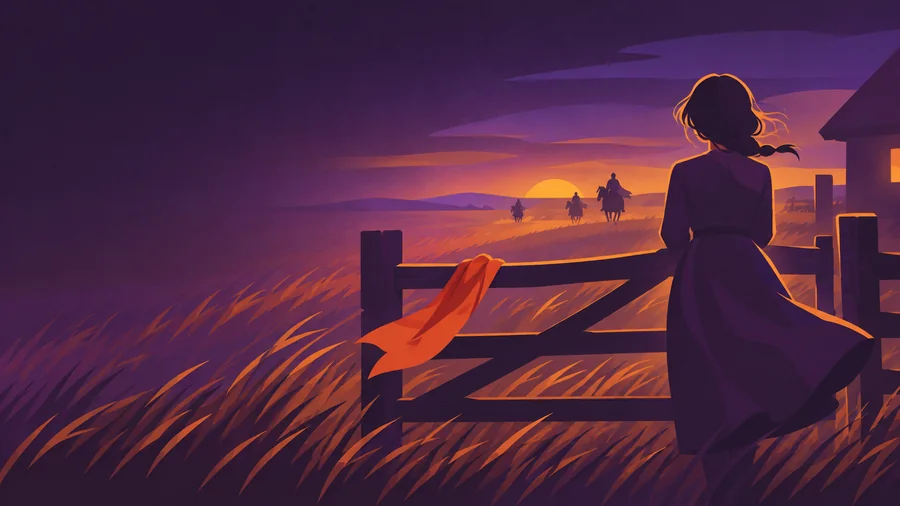
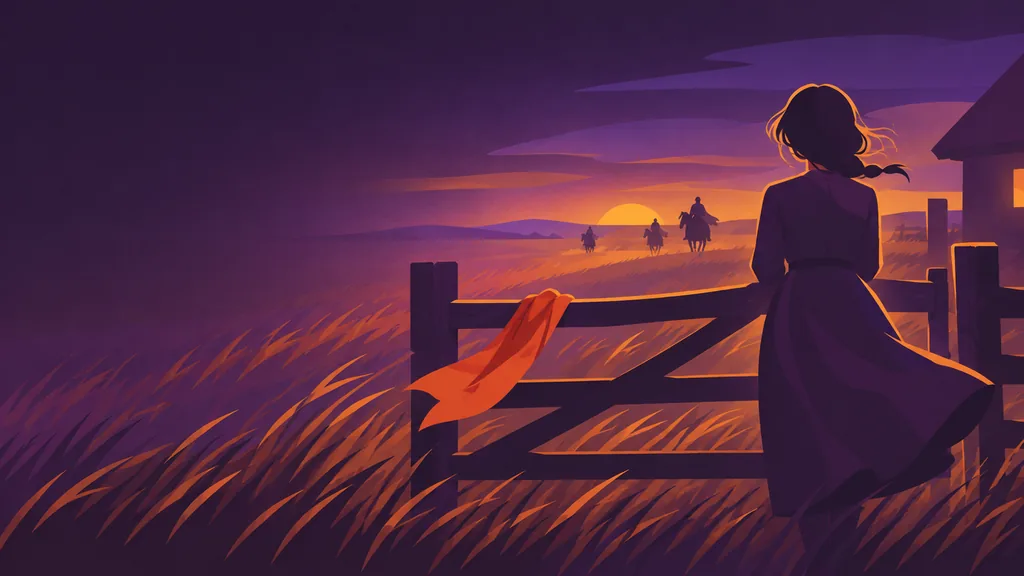
Обкладинки для всіх тем і розділів
Було: 22 теми з картинкою, 39 з емодзі, 3 розділи з 8. Стало: усі 61
і всі 8. Плюс шість екранів станів (денна ціль, серії 3/7/30, порожній
прогрес, офлайн).

Картинки згенеровано через Gemini за спільним еталоном стилю. Бот
віддав 50 файлів із випадковими іменами й без папки, тож зіставляв
за сюжетом по контактних аркушах; порядок генерації збігся з порядком
у промті, що спростило звірку.

З 50 придатних виявилось 43: сім слотів пішло на дублі (двічі лупа,
двічі кларнет, двічі перо, двічі гілка) і один на натюрморт замість
села. Відсутні cover-nova та всі шість станів догенеровано окремо.

Дорогою: сітку станів довелося переробити в чистому чаті — у чаті
з попереднім зображенням Gemini віддавав на завантаження кадр, де нова
картинка напівпрозоро накладена на стару. На екрані виглядало чисто,
у файлі — ні.

200 МБ вихідних PNG стиснуто до 1,8 МБ WebP: розділи до 1024 по довгій
стороні, квадратні до 768, якість 82.

Список картинок у sw.js тепер збирається з каталогу, а не ведеться
руками — 93 файли, жодного відсутнього.

diff --git a/content/index.js b/content/index.js
@@ -39,6 +39,7 @@ export const SECTIONS = [
   },
   {
     id: 'davnya',
+    cover: ART + 'cover-davnya.webp',
     title: 'Давня українська література',
     topics: [
       {
@@ -57,6 +58,7 @@ export const SECTIONS = [
   },
   {
     id: 'nova',
+    cover: ART + 'cover-nova.webp',
     title: 'Література кінця XVIII — початку XX ст.',
     topics: [
       {
@@ -120,129 +122,130 @@ export const SECTIONS = [
     topics: [
       {
         id: 'kotsyubynsky-tini', title: '«Тіні забутих предків»', author: 'Михайло Коцюбинський',
-        icon: '🏔', minutes: 14,
+        icon: '🏔', minutes: 14, cover: ART + 'cover-kotsyubynsky-tini.webp',
       },
       {
         id: 'kotsyubynsky-intermezzo', title: '«Intermezzo»', author: 'Михайло Коцюбинський',
-        icon: '🌾', minutes: 11,
+        icon: '🌾', minutes: 11, cover: ART + 'cover-kotsyubynsky-intermezzo.webp',
       },
       {
         id: 'stefanyk-kaminnyy-khrest', title: '«Камінний хрест»', author: 'Василь Стефаник',
-        icon: '✝', minutes: 11,
+        icon: '✝', minutes: 11, cover: ART + 'cover-stefanyk-kaminnyy-khrest.webp',
       },
       {
         id: 'kobylyanska-valse', title: '«Valse mélancolique»', author: 'Ольга Кобилянська',
-        icon: '🎹', minutes: 12,
+        icon: '🎹', minutes: 12, cover: ART + 'cover-kobylyanska-valse.webp',
       },
       {
         id: 'lesya-contra-spem-spero', title: '«Contra spem spero!»', author: 'Леся Українка',
-        icon: '🌸', minutes: 9,
+        icon: '🌸', minutes: 9, cover: ART + 'cover-lesya-contra-spem-spero.webp',
       },
       {
         id: 'lesya-lisova-pisnya', title: '«Лісова пісня»', author: 'Леся Українка',
-        icon: '🌲', minutes: 15,
+        icon: '🌲', minutes: 15, cover: ART + 'cover-lesya-lisova-pisnya.webp',
       },
       {
         id: 'voronyy-blakytna-panna', title: '«Блакитна Панна»', author: 'Микола Вороний',
-        icon: '💙', minutes: 9,
+        icon: '💙', minutes: 9, cover: ART + 'cover-voronyy-blakytna-panna.webp',
       },
       {
         id: 'oles-poeziya', title: 'Поезія Олександра Олеся', author: '«Чари ночі», «О слово рідне!»',
-        icon: '🌙', minutes: 11,
+        icon: '🌙', minutes: 11, cover: ART + 'cover-oles-poeziya.webp',
       },
       {
         id: 'tychyna-poeziya', title: 'Поезія Павла Тичини', author: 'Три вірші з програми',
-        icon: '🎺', minutes: 13,
+        icon: '🎺', minutes: 13, cover: ART + 'cover-tychyna-poeziya.webp',
       },
       {
         id: 'rylsky-u-tepli-dni', title: '«У теплі дні збирання винограду…»', author: 'Максим Рильський',
-        icon: '🍇', minutes: 10,
+        icon: '🍇', minutes: 10, cover: ART + 'cover-rylsky-u-tepli-dni.webp',
       },
       {
         id: 'khvylovyy-ya-romantyka', title: '«Я (Романтика)»', author: 'Микола Хвильовий',
-        icon: '🔥', minutes: 13,
+        icon: '🔥', minutes: 13, cover: ART + 'cover-khvylovyy-ya-romantyka.webp',
       },
       {
         id: 'yanovsky-mayster-korablya', title: '«Майстер корабля»', author: 'Юрій Яновський',
-        icon: '⛵', minutes: 12,
+        icon: '⛵', minutes: 12, cover: ART + 'cover-yanovsky-mayster-korablya.webp',
       },
       {
         id: 'pidmohylnyy-misto', title: '«Місто»', author: 'Валер’ян Підмогильний',
-        icon: '🏙', minutes: 13,
+        icon: '🏙', minutes: 13, cover: ART + 'cover-pidmohylnyy-misto.webp',
       },
       {
         id: 'vyshnya-usmishky', title: 'Усмішки Остапа Вишні', author: '«Моя автобіографія», «Сом»',
-        icon: '🎣', minutes: 11,
+        icon: '🎣', minutes: 11, cover: ART + 'cover-vyshnya-usmishky.webp',
       },
       {
         id: 'kulish-myna-mazaylo', title: '«Мина Мазайло»', author: 'Микола Куліш',
-        icon: '🎭', minutes: 13,
+        icon: '🎭', minutes: 13, cover: ART + 'cover-kulish-myna-mazaylo.webp',
       },
       {
         id: 'antonych-rizdvo', title: '«Різдво»', author: 'Богдан-Ігор Антонич',
-        icon: '❄', minutes: 9,
+        icon: '❄', minutes: 9, cover: ART + 'cover-antonych-rizdvo.webp',
       },
       {
         id: 'sosyura-lyubit-ukrainu', title: '«Любіть Україну!»', author: 'Володимир Сосюра',
-        icon: '🌻', minutes: 9,
+        icon: '🌻', minutes: 9, cover: ART + 'cover-sosyura-lyubit-ukrainu.webp',
       },
       {
         id: 'dovzhenko-zacharovana-desna', title: '«Зачарована Десна»', author: 'Олександр Довженко',
-        icon: '🏞', minutes: 13,
+        icon: '🏞', minutes: 13, cover: ART + 'cover-dovzhenko-zacharovana-desna.webp',
       },
       {
         id: 'malyshko-pisnya-pro-rushnyk', title: '«Пісня про рушник»', author: 'Андрій Малишко',
-        icon: '🧵', minutes: 9,
+        icon: '🧵', minutes: 9, cover: ART + 'cover-malyshko-pisnya-pro-rushnyk.webp',
       },
       {
         id: 'honchar-modry-kamen', title: '«Модри Камень»', author: 'Олесь Гончар',
-        icon: '🏔', minutes: 10,
+        icon: '🏔', minutes: 10, cover: ART + 'cover-honchar-modry-kamen.webp',
       },
       {
         id: 'symonenko-poeziya', title: 'Поезія Василя Симоненка', author: 'Три вірші з програми',
-        icon: '🦢', minutes: 12,
+        icon: '🦢', minutes: 12, cover: ART + 'cover-symonenko-poeziya.webp',
       },
       {
         id: 'holoborodko-nasha-mova', title: '«Наша мова»', author: 'Василь Голобородько',
-        icon: '🗣', minutes: 9,
+        icon: '🗣', minutes: 9, cover: ART + 'cover-holoborodko-nasha-mova.webp',
       },
       {
         id: 'tyutyunnyk-try-zozuli', title: '«Три зозулі з поклоном»', author: 'Григір Тютюнник',
-        icon: '🕊', minutes: 11,
+        icon: '🕊', minutes: 11, cover: ART + 'cover-tyutyunnyk-try-zozuli.webp',
       },
       {
         id: 'stus-hospody', title: '«Господи, гніву пречистого…»', author: 'Василь Стус',
-        icon: '⛓', minutes: 10,
+        icon: '⛓', minutes: 10, cover: ART + 'cover-stus-hospody.webp',
       },
       {
         id: 'drach-balada-pro-sonyashnyk', title: '«Балада про соняшник»', author: 'Іван Драч',
-        icon: '🌞', minutes: 10,
+        icon: '🌞', minutes: 10, cover: ART + 'cover-drach-balada-pro-sonyashnyk.webp',
       },
       {
         id: 'pavlychko-dva-kolory', title: '«Два кольори»', author: 'Дмитро Павличко',
-        icon: '🧶', minutes: 9,
+        icon: '🧶', minutes: 9, cover: ART + 'cover-pavlychko-dva-kolory.webp',
       },
       {
         id: 'kostenko-strashni-slova', title: '«Страшні слова, коли вони мовчать»', author: 'Ліна Костенко',
-        icon: '✒', minutes: 10,
+        icon: '✒', minutes: 10, cover: ART + 'cover-kostenko-strashni-slova.webp',
       },
       {
         id: 'kostenko-marusya-churay', title: '«Маруся Чурай»', author: 'Ліна Костенко',
-        icon: '🎼', minutes: 15,
+        icon: '🎼', minutes: 15, cover: ART + 'cover-kostenko-marusya-churay.webp',
       },
     ],
   },
   {
     id: 'emigranty',
+    cover: ART + 'cover-emigranty.webp',
     title: 'Письменники-емігранти',
     topics: [
       {
         id: 'bahryanyy-tyhrolovy', title: '«Тигролови»', author: 'Іван Багряний',
-        icon: '🐅', minutes: 14,
+        icon: '🐅', minutes: 14, cover: ART + 'cover-bahryanyy-tyhrolovy.webp',
       },
       {
         id: 'malanyuk-uryvok-z-poemy', title: '«Уривок з поеми»', author: 'Євген Маланюк',
-        icon: '🗡', minutes: 10,
+        icon: '🗡', minutes: 10, cover: ART + 'cover-malanyuk-uryvok-z-poemy.webp',
       },
     ],
   },
@@ -253,12 +256,13 @@ export const SECTIONS = [
     topics: [
       {
         id: 'suchasnyy-protses', title: 'Сучасний літературний процес', author: 'Постмодернізм і його автори',
-        icon: '🌀', minutes: 11,
+        icon: '🌀', minutes: 11, cover: ART + 'cover-suchasnyy-protses.webp',
       },
     ],
   },
   {
     id: 'teoriya',
+    cover: ART + 'cover-teoriya.webp',
     title: 'Теорія літератури',
     topics: [
       {
@@ -267,41 +271,42 @@ export const SECTIONS = [
       },
       {
         id: 'teoriya-virshuvannya', title: 'Віршування', author: 'Розмір, рима, строфа',
-        icon: '📐', minutes: 12,
+        icon: '📐', minutes: 12, cover: ART + 'cover-teoriya-virshuvannya.webp',
       },
       {
         id: 'teoriya-tropy', title: 'Художні засоби', author: 'Тропи й стилістичні фігури',
-        icon: '🎨', minutes: 13,
+        icon: '🎨', minutes: 13, cover: ART + 'cover-teoriya-tropy.webp',
       },
       {
         id: 'teoriya-napryamy', title: 'Літературні напрями', author: 'Від бароко до постмодернізму',
-        icon: '🧭', minutes: 13,
+        icon: '🧭', minutes: 13, cover: ART + 'cover-teoriya-napryamy.webp',
       },
     ],
   },
   {
     id: 'rozbir',
+    cover: ART + 'cover-rozbir.webp',
     title: 'Аналіз незнайомого тексту',
     topics: [
       {
         id: 'cluster-yak-rozbyraty', title: 'Як розбирати незнайомий текст', author: 'Завдання 16–25',
-        icon: '🧩', minutes: 10,
+        icon: '🧩', minutes: 10, cover: ART + 'cover-cluster-yak-rozbyraty.webp',
       },
       {
         id: 'cluster-lesya-vesna', title: 'Вірш І: «Стояла я і слухала весну…»', author: 'Леся Українка',
-        icon: '🌱', minutes: 8,
+        icon: '🌱', minutes: 8, cover: ART + 'cover-cluster-lesya-vesna.webp',
       },
       {
         id: 'cluster-franko-zernya', title: 'Вірш ІІ: «Ой ти, дівчино, з горіха зерня…»', author: 'Іван Франко',
-        icon: '🌰', minutes: 8,
+        icon: '🌰', minutes: 8, cover: ART + 'cover-cluster-franko-zernya.webp',
       },
       {
         id: 'cluster-stefanyk-novyna', title: 'Проза І: «Новина»', author: 'Василь Стефаник',
-        icon: '🪨', minutes: 9,
+        icon: '🪨', minutes: 9, cover: ART + 'cover-cluster-stefanyk-novyna.webp',
       },
       {
         id: 'cluster-kotsyubynsky-tsvit', title: 'Проза ІІ: «Цвіт яблуні»', author: 'Михайло Коцюбинський',
-        icon: '🌸', minutes: 9,
+        icon: '🌸', minutes: 9, cover: ART + 'cover-cluster-kotsyubynsky-tsvit.webp',
       },
     ],
   },

diff --git a/sw.js b/sw.js
@@ -1,29 +1,33 @@
 // Service worker: офлайн-режим і щоденне нагадування.
 // Піднімай CACHE_VERSION після зміни файлів — інакше браузер віддасть старі.
 
-const CACHE_VERSION = 'litera-v40';
+const CACHE_VERSION = 'litera-v41';
 
 const ART = [
-  // обкладинки тем
-  'cover-folklore', 'cover-xx', 'cover-suchasna',
-  'cover-pisni-marusi-churay', 'cover-istorychni-pisni',
-  'cover-duma-marusya-bohuslavka', 'cover-balada-oy-letila-strila',
-  'cover-povist-mynulykh-lit', 'cover-slovo-o-polku', 'cover-skovoroda',
-  'cover-kotlyarevsky-eneida', 'cover-kotlyarevsky-natalka',
-  'cover-shevchenko-kateryna', 'cover-shevchenko-zapovit', 'cover-shevchenko-kavkaz',
-  'cover-shevchenko-son', 'cover-shevchenko-i-mertvym',
-  'cover-kulish-chorna-rada', 'cover-nechuy-kaydasheva-simya',
-  'cover-myrnyy-khiba-revut-voly', 'cover-karpenko-karyy-martyn-borulya',
-  'cover-franko-zakhar-berkut', 'cover-franko-poeziya', 'cover-rody-i-zhanry',
-  // значки досягнень
-  'award-first-lesson', 'award-perfect', 'award-streak-3', 'award-streak-7',
-  'award-streak-30', 'award-xp-500', 'award-xp-2000', 'award-reviewer',
-  // екрани результату й порожніх станів
-  'result-perfect', 'result-good', 'result-mid', 'result-low', 'result-hearts-out',
-  'empty-practice', 'empty-error',
-  // лелека — по одній позі на настрій
-  'mascot-hello', 'mascot-happy', 'mascot-encourage', 'mascot-bye', 'mascot-read',
-  'mascot-fire', 'mascot-crown', 'mascot-sleep', 'mascot-sad',
+  'award-first-lesson', 'award-perfect', 'award-reviewer', 'award-streak-3', 'award-streak-30',
+  'award-streak-7', 'award-xp-2000', 'award-xp-500', 'cover-antonych-rizdvo', 'cover-bahryanyy-tyhrolovy',
+  'cover-balada-oy-letila-strila', 'cover-cluster-franko-zernya', 'cover-cluster-kotsyubynsky-tsvit',
+  'cover-cluster-lesya-vesna', 'cover-cluster-stefanyk-novyna', 'cover-cluster-yak-rozbyraty',
+  'cover-davnya', 'cover-dovzhenko-zacharovana-desna', 'cover-drach-balada-pro-sonyashnyk',
+  'cover-duma-marusya-bohuslavka', 'cover-emigranty', 'cover-folklore', 'cover-franko-poeziya',
+  'cover-franko-zakhar-berkut', 'cover-holoborodko-nasha-mova', 'cover-honchar-modry-kamen',
+  'cover-istorychni-pisni', 'cover-karpenko-karyy-martyn-borulya', 'cover-khvylovyy-ya-romantyka',
+  'cover-kobylyanska-valse', 'cover-kostenko-marusya-churay', 'cover-kostenko-strashni-slova',
+  'cover-kotlyarevsky-eneida', 'cover-kotlyarevsky-natalka', 'cover-kotsyubynsky-intermezzo',
+  'cover-kotsyubynsky-tini', 'cover-kulish-chorna-rada', 'cover-kulish-myna-mazaylo', 'cover-lesya-contra-spem-spero',
+  'cover-lesya-lisova-pisnya', 'cover-malanyuk-uryvok-z-poemy', 'cover-malyshko-pisnya-pro-rushnyk',
+  'cover-myrnyy-khiba-revut-voly', 'cover-nechuy-kaydasheva-simya', 'cover-nova', 'cover-oles-poeziya',
+  'cover-pavlychko-dva-kolory', 'cover-pidmohylnyy-misto', 'cover-pisni-marusi-churay', 'cover-povist-mynulykh-lit',
+  'cover-rody-i-zhanry', 'cover-rozbir', 'cover-rylsky-u-tepli-dni', 'cover-shevchenko-i-mertvym',
+  'cover-shevchenko-kateryna', 'cover-shevchenko-kavkaz', 'cover-shevchenko-son', 'cover-shevchenko-zapovit',
+  'cover-skovoroda', 'cover-slovo-o-polku', 'cover-sosyura-lyubit-ukrainu', 'cover-stefanyk-kaminnyy-khrest',
+  'cover-stus-hospody', 'cover-suchasna', 'cover-suchasnyy-protses', 'cover-symonenko-poeziya',
+  'cover-teoriya', 'cover-teoriya-napryamy', 'cover-teoriya-tropy', 'cover-teoriya-virshuvannya',
+  'cover-tychyna-poeziya', 'cover-tyutyunnyk-try-zozuli', 'cover-voronyy-blakytna-panna',
+  'cover-vyshnya-usmishky', 'cover-xx', 'cover-yanovsky-mayster-korablya', 'empty-error',
+  'empty-practice', 'mascot-bye', 'mascot-crown', 'mascot-encourage', 'mascot-fire', 'mascot-happy',
+  'mascot-hello', 'mascot-read', 'mascot-sad', 'mascot-sleep', 'state-goal-done', 'state-offline',
+  'state-stats-empty', 'state-streak-3', 'state-streak-30', 'state-streak-7',
 ].map(n => `assets/art/${n}.webp`);
 
 const SHELL = [

diff --git a/content/changelog.js b/content/changelog.js
@@ -5,6 +5,16 @@
 
 export const CHANGELOG = [
   {
+    date: '2026-08-29',
+    title: 'Кожна тема отримала свою картинку',
+    items: [
+      'Раніше половина тем була просто емодзі на плашці. Тепер обкладинка є в усіх 61 темі й у всіх 8 розділах — усі намальовані в одній манері.',
+      'Карпати для «Тіней забутих предків», кам’яний хрест для Стефаника, рояль із обірваною струною для «Valse mélancolique», соняшник із сонцем на велосипеді для Драча.',
+      'Додалися картинки для маленьких свят: денна ціль, серія в 3, 7 і 30 днів.',
+      'Усі 93 картинки разом важать менше двох мегабайтів, тож застосунок не став повільнішим.',
+    ],
+  },
+  {
     date: '2026-08-28',
     title: 'У застосунку з’явився лелека',
     items: [
